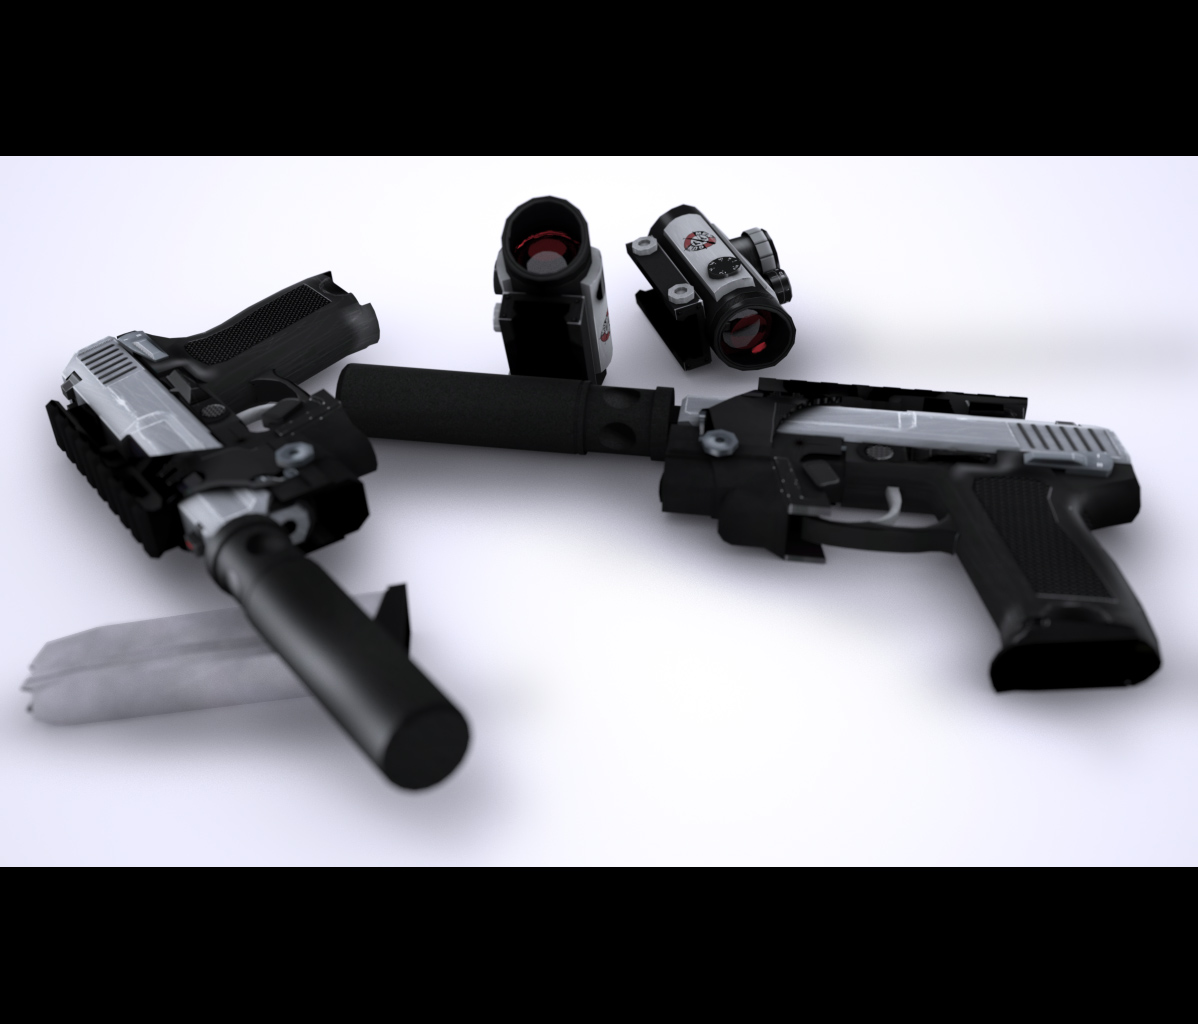
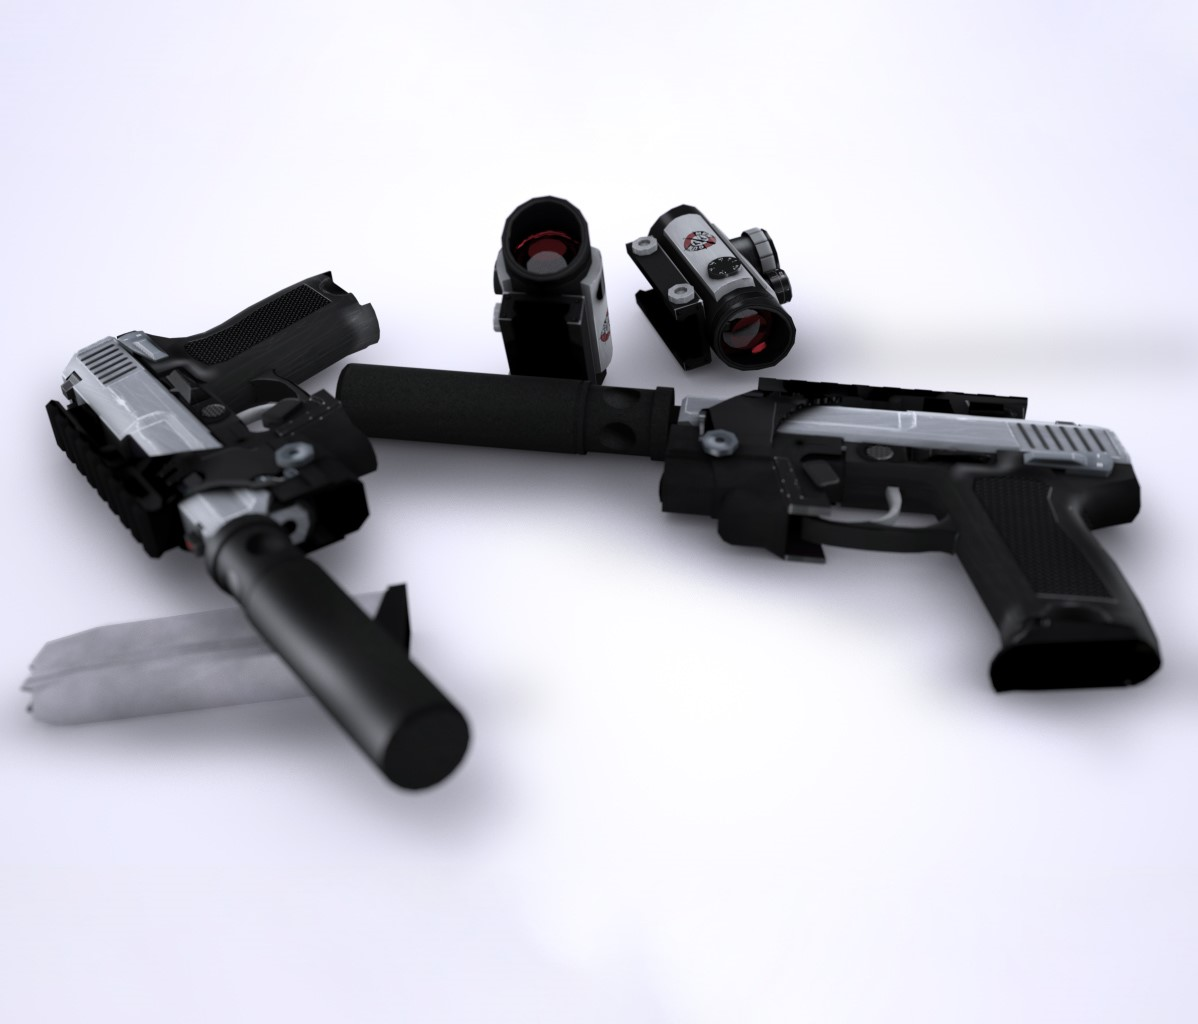
Updated readme and fixed Falcon 2 image

diff --git a/README.md b/README.md
@@ -14,6 +14,8 @@ Part 2: Navigation bar is complete
 
 Next I want to build the index, copy the footer and possibly some other content over to the other pages to get them rolling. After I'm satisfied with the index, I want to start implementing some cool stuff on each page to hit the project requirements. 
 
+I got a little off-track exploring new things. I decided to change up the layout I was going for a bit because I found these really cool 3d models that I could embed into the page, so I want to build a gallery on the featured page. So far it seems cool. On the individual pages, I will have info sections for the products in the main-nav bar, with some parallax stuff. Next task is gonna be to add a footer and some kind of prompt / input field for email newsletter, and add some javascript if the @ symbol or .com isn't detected. 
+
 
 
 
